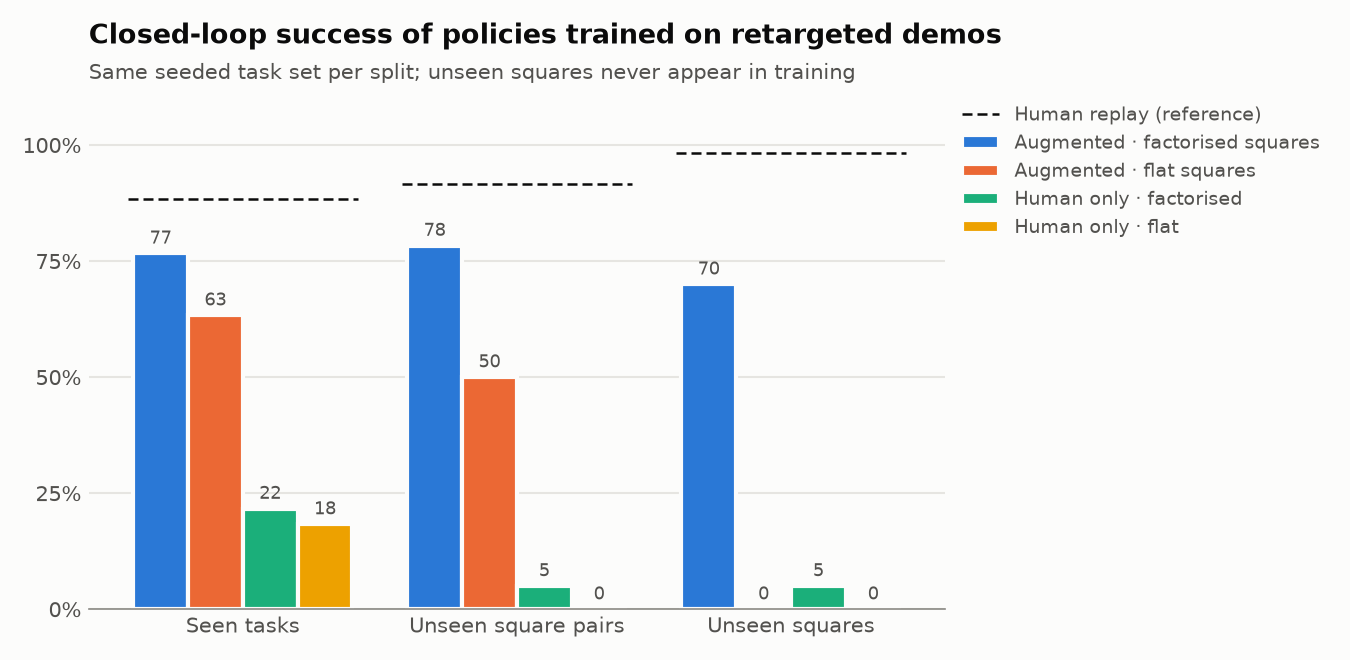
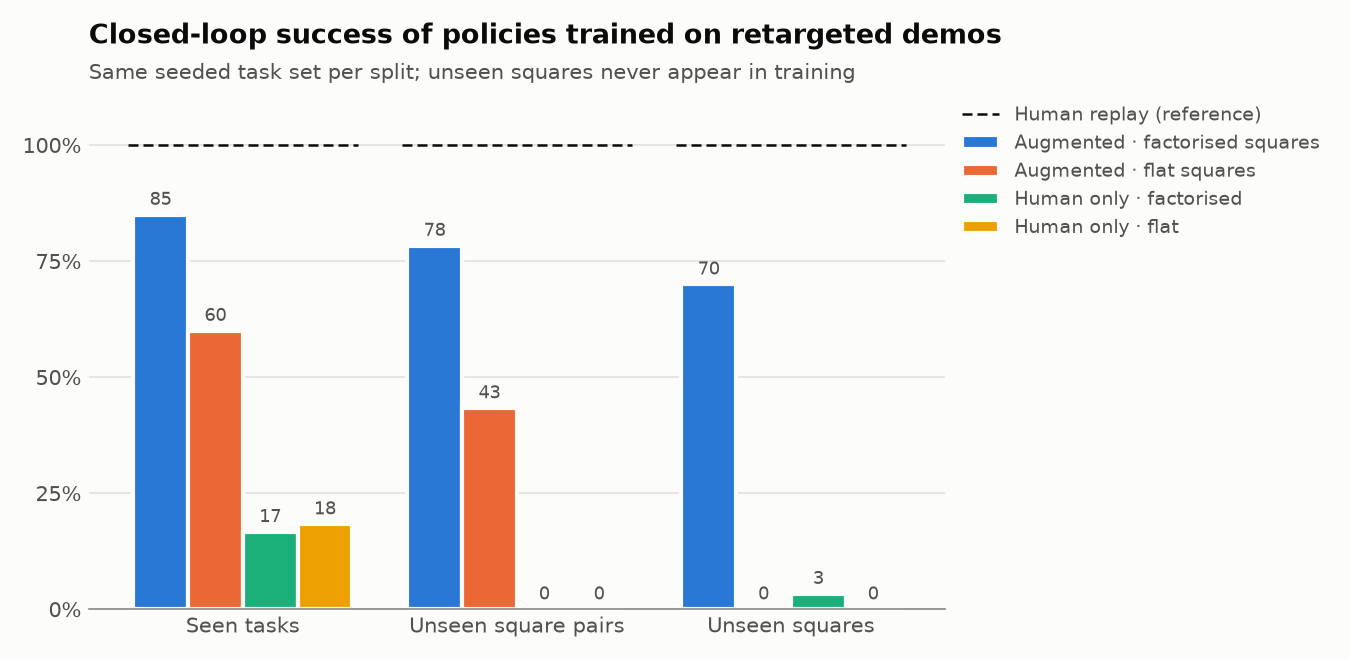
README: policy results on the fixed simulator (seed 0), training-data adjustments for learning

diff --git a/README.md b/README.md
@@ -29,8 +29,8 @@ only used to test the simulator.
 | Board pose recovered from the demos alone | square size **39.97 / 40.43 mm** (left/right arm, true 40 mm), median fingertip error **≈5 mm** |
 | Naive retargeting (copy the hand path) | **27.7 %** of 675 demos succeed on the Panda |
 | Object-centric retargeting (keeps the human's timing, path and yaw) | **99.9 %** succeed (674 / 675) |
-| Board-symmetry augmentation | 469 human demos → **3 015** sim-verified training episodes (augmented copies succeed as often as originals: 94.3 % vs 93.6 %) |
-| Policy trained on them, closed loop | **77 % / 78 % / 70 %** on seen tasks / unseen square pairs / squares never seen in training (flat square embeddings: 0 % on unseen squares; no augmentation: ≤ 22 %) |
+| Board-symmetry augmentation | 499 human demos → **3 195** sim-verified training episodes (augmented copies succeed as often as originals: 99.9 % vs 99.3 %) |
+| Policy trained on them, closed loop | **85 % / 78 % / 70 %** on seen tasks / unseen square pairs / squares never seen in training (flat square embeddings: 0 % on unseen squares; no augmentation: ≤ 18 %) |
 | Whole game | Morphy's *Opera Game* (1858), 33 plies played with my recorded hand motions: **34 / 34** piece moves, **no interventions**, on each of 10 random choices of which demo is replayed per move |
 
 ---
@@ -171,9 +171,19 @@ because the human trajectory lives in board coordinates the whole motion moves w
 (`chessbot/augment.py`). Each demo was re-anchored to 4 random symmetric copies and every copy
 was replayed on the Panda; only successful rollouts were kept.
 
-* 3 375 rollouts → 3 178 successful; 3 015 in the training split (469 human + 2 546 augmented).
-* Augmented copies succeed at the same rate as the originals (94.3 % vs 93.6 %), which is a
+* 3 375 rollouts → 3 366 successful; 3 195 in the training split (499 human + 2 696 augmented).
+* Augmented copies succeed at the same rate as the originals (99.9 % vs 99.3 %), which is a
   useful check that the re-anchoring preserves motion quality.
+
+The training rollouts differ from the replays in two ways, both removing something the
+instruction cannot tell a policy:
+
+* **They start at the pre-grasp funnel**, not a second earlier. Where my hand rested before
+  reaching was on average 18 cm from the piece, and off the board in over half the demos.
+* **The sign of the gripper yaw is canonicalised.** Which hand demonstrated decides it: left-hand
+  demos grasp at about −0.9 rad, right-hand ones at +0.7, and mirrored copies flip it. Within one
+  instruction the grasp yaw varied by 1.36 rad (median). Episodes that grasp at negative yaw have
+  their whole yaw track mirrored, keeping the size and timing of my wrist turn.
 
 **Held-out evaluation** (`chessbot/splits.py`): six squares (b6, c3, d7, e2, f5, g4) never
 appear in training, as source or destination, and ~10 % of (piece, source, destination)
@@ -194,13 +204,13 @@ seed each (with n = 60 the standard error is about ±6 points):
 
 | Policy | Training episodes | Seen tasks | Unseen square pairs | Unseen squares |
 |---|---|---|---|---|
-| *Retargeted human replay (reference, not a policy)* | | *88.3 %* | *91.7 %* | *98.3 %* |
-| **Augmented · factorised squares** | 3 015 | **76.7 %** | **78.3 %** | **70.0 %** |
-| Augmented · flat squares | 3 015 | 63.3 % | 50.0 % | 0.0 % |
-| Human only · factorised squares | 469 | 21.7 % | 5.0 % | 5.0 % |
-| Human only · flat squares | 469 | 18.3 % | 0.0 % | 0.0 % |
+| *Retargeted human replay (reference, not a policy)* | | *100 %* | *100 %* | *100 %* |
+| **Augmented · factorised squares** | 3 195 | **85.0 %** | **78.3 %** | **70.0 %** |
+| Augmented · flat squares | 3 195 | 60.0 % | 43.3 % | 0.0 % |
+| Human only · factorised squares | 499 | 16.7 % | 0.0 % | 3.3 % |
+| Human only · flat squares | 499 | 18.3 % | 0.0 % | 0.0 % |
 
-Two things stand out. **Augmentation is what makes learning work**: 469 human demonstrations, one
+Two things stand out. **Augmentation is what makes learning work**: 499 human demonstrations, one
 per move, are far too few for a policy to learn where 64 squares are, while their symmetric copies
 are enough. And **the square encoding decides generalisation**: with one embedding per square, a
 square never seen in training is simply unknown (0 %); composing it from a seen file and a seen
@@ -259,6 +269,14 @@ were never meant to thread between neighbours.
   individual failures (contacts, joint torques) found them; tuning the retargeter would not have.
 * Crowded full boards are harder than the sparse boards in the demos; the game script counts
   every intervention (now zero, but the margin around neighbours is a few millimetres).
+* Training the policy on the replays as they were. Once the simulator was fixed, the factorised
+  policy fell to 33 % on seen tasks, against 85 % now. Rollouts began wherever my hand happened
+  to rest, and the grasp yaw had two modes the instruction cannot distinguish (which hand
+  demonstrated), so a regression policy averaged them and approached at a yaw no demo used. A
+  policy that can represent several modes (diffusion or a discretised action head) would be the
+  principled fix; canonicalising the data was the quick one. (Before the simulator fixes, the
+  same recipe gave 77 %; I suspect the buggy, uncoupled fingers forgave misaligned grasps, but did
+  not verify it.)
 
 **Limitations**
 * The compact policy reads a parsed instruction and proprioception, not images; SmolVLA is the
@@ -305,6 +323,6 @@ chessbot/
 scripts/                              one script per step above
 notebooks/smolvla_colab.ipynb         SmolVLA fine-tuning and evaluation on Colab
 calib/                                fitted board calibrations
-artifacts/train_rollouts.jsonl.gz     the 3 015 sim-verified training rollouts
+artifacts/train_rollouts.jsonl.gz     the 3 195 sim-verified training rollouts
 docs/                                 figures
 ```
